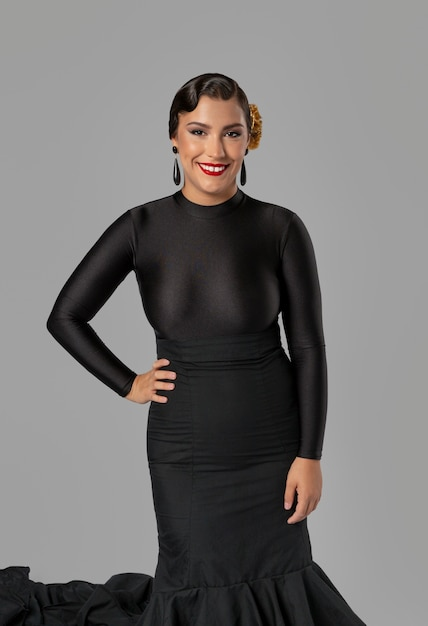
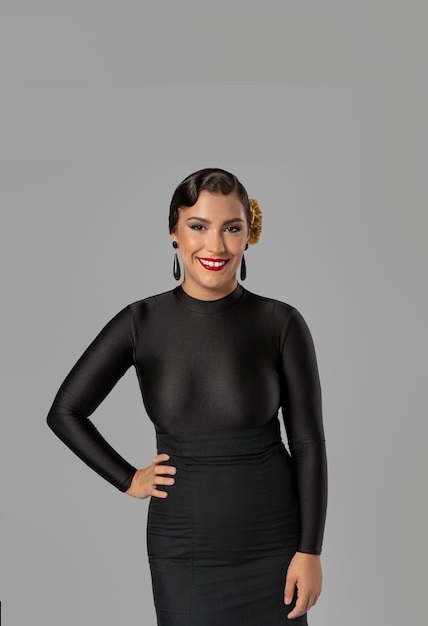
construction the 'team section'

Changed region(s): [[0.0, 0.0911, 0.8505, 1.0], [0.3949, 0.9409, 0.4556, 1.0], [0.5771, 0.9409, 0.6075, 0.9712]]

diff --git a/assets/css/style.css b/assets/css/style.css
@@ -59,7 +59,9 @@ html{
 }
 
 
-
+/************************/
+/**** header section ****/
+/************************/
 
 header {
     position: fixed;
@@ -271,9 +273,6 @@ header .icons #menu-bars{
     background-color: #7aacff;
     overflow: hidden;
     text-align: center; /* Centraliza o texto e o cabeçalho na seção */
-    
-    
-
 }
 
 .project .container{
@@ -356,28 +355,109 @@ header .icons #menu-bars{
 }
 
 
-
-
 .project .heading h1{
     color: #F0E68C;
     font-size: 55px;
     text-align: center;
     margin: 35px;
+    margin-top: 50px;
 }
 
 .project .project-text p{
     font-size: 20px;
     line-height: 1.5;
-    margin-bottom: 1px;
+    margin-bottom: 50px;
     color: #666;
     padding: 0px 40px; /* Margem texto abaixo título */
 }
 
 
+/*************************/
+/**** team section ****/
+/*************************/
 
 
+.team .heading h1{
+    color: #F0E68C;
+    font-size: 55px;
+    text-align: center;
+    padding: 35px;
+    padding-top: 50px;    
+}
 
+.team .team-container{
+    display: flex;
+    flex-wrap: wrap;
+    gap: 1.5rem;
+    margin: 1.5rem;
+    padding-bottom: 100px;
+}
 
+.team .team-container .team-box{
+    position: relative;
+    height: 420px;
+    flex: 1 1 18rem;
+    overflow: hidden;
+}
+
+.team .team-container .team-box img{
+    width: 100%;
+    height: 100%;
+    object-fit: cover;    
+}
+
+.team .team-container .team-box .text{
+position: absolute;
+top: -100%;
+left: 0;
+width: 100%;
+height: 100%;
+text-align: center;
+padding: 20px;
+padding-top: 8rem;
+background: rgba(255,244,243, 0.78);
+transition: 0.5s;
+}
+
+.team .team-container .team-box:hover .text{
+    top:0;
+}
+
+.team-box .text h2{
+    font-size: 2.5rem;
+
+}
+
+.team-box .text p{
+    font-size: 1.5rem;
+    margin: 0.4rem 0.1rem;
+    padding-top: 1rem;
+    padding-bottom: 8rem;
+}
+    
+    
+.team .team-container .team-box .btn{
+    display: inline-block;
+    background-color: #ff4500;
+    color: #fff;
+    padding: 12px 24px;
+    border-radius: 6px;
+    font-size: 20px;
+    border: none;
+    cursor: pointer;
+    transition: 0.1s ease;
+
+}    
+
+.team .team-container .team-box .btn:hover{
+    background-color: #ff6347;
+    transform: scale(1.1);
+}
+    
+    
+    
+    
+    
 
 
 

diff --git a/index.html b/index.html
@@ -146,15 +146,14 @@
 
   <section class="team" id="team">
        <div class="heading">
-            <p>Nossa Equipe</p>
-            <h2>Nossos Talentosos Professores</h2>
-       </div>
+            <h1 class="heading">Nossa Equipe</h1>
+       </div>       
        <div class="team-container">
             <div class="team-box">
                 <img src="assets/img/ramona-gutierrez.jpg" alt="Professora Ramona Gutierrez">
                 <div class="text">
                     <h2>Ramona Gutierrez</h2>
-                    <p>Professora de Flamenco há 25 anos. 
+                    <p>Professora de Flamenco há 25 anos. </br>
                         Direção Cênica, Coreografias, Aulas Práticas e Teóricas para adultos.</p>
                     <a href="#" class="btn">Imagens de Ramona</a>
                 </div>
@@ -163,17 +162,17 @@
                 <img src="assets/img/ana-javier.jpg" alt="Professora Ana Javier">
                 <div class="text">
                     <h2>Ana Javier</h2>
-                    <p>Professora de Flamenco, turmas infantil e juvenil. 
+                    <p>Professora de Flamenco, turmas infantil e juvenil. </br>
                         Ministra aulas do curso de dança Flamenca com abanico/leque, nível básico ao avançado, 
                         presencial (sempre no último final de semana de cada mês) ou online.</p>
                     <a href="#" class="btn">Imagens de Ana</a>
                 </div>
             </div>
             <div class="team-box">
-                <img src="assets/img/adalia-garcia.jpg  " alt="Professora Adalia Garcia">
+                <img src="assets/img/adalia-garcia-3.jpg  " alt="Professora Adalia Garcia">
                 <div class="text">
                     <h2>Adalia Garcia</h2>
-                    <p>Professora e coreografa de Flamenco desde 2007. 
+                    <p>Professora e coreografa de Flamenco desde 2007. </br>
                         Idealizadora do premiado espetáculo “Así Se Baila!” (2013). 
                         Sócia proprietária da escola de dança flamenca pasión. 
                         Ministra aulas de flamenco para adultos, nível intermedário e nível avançado.</p>
